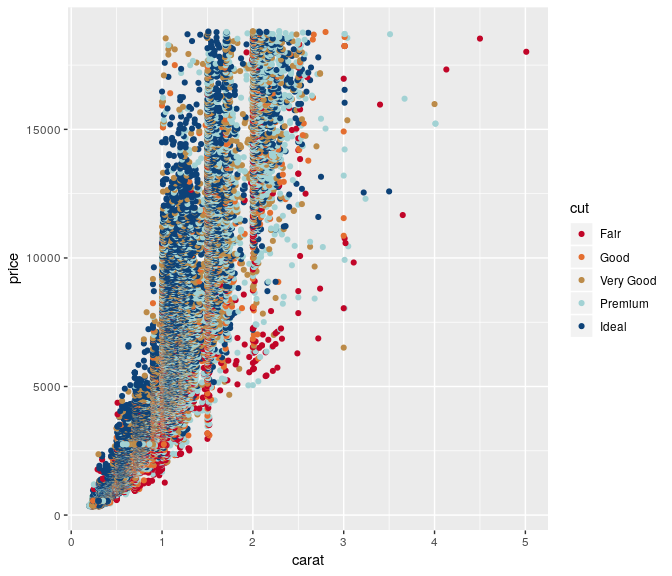
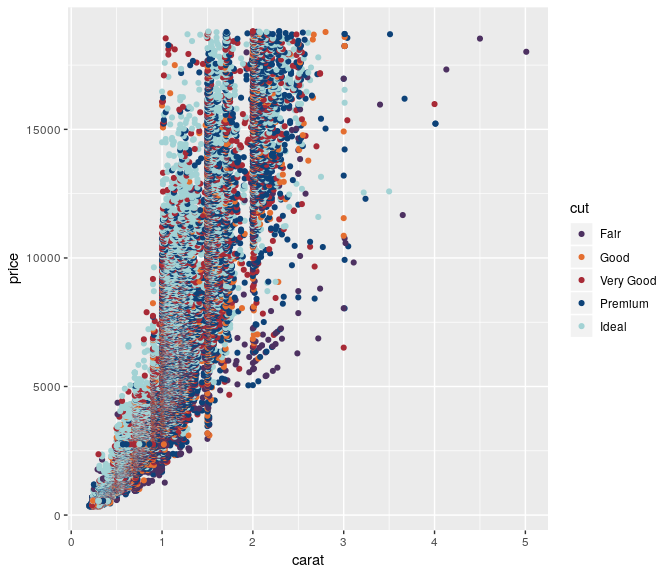
new colours

diff --git a/README.md b/README.md
@@ -21,9 +21,8 @@ See all available palettes:
 
 ``` r
 names(suf_palettes)
-#>  [1] "flag"       "london"     "hanwell"    "oxon"       "manchester"
-#>  [6] "mary"       "marion"     "e17"        "equality"   "caroline"  
-#> [11] "CarolMan"   "chelsea"    "StGeorge"   "chelsea2"
+#> [1] "london"   "oxon"     "CarolMan" "hanwell"  "chelsea"  "classic" 
+#> [7] "mary"
 ```
 
 Palettes
@@ -117,13 +116,6 @@ suf_palette("hanwell")
 
 ![](fig/README-unnamed-chunk-11-1.png)
 
-``` r
-# Discrete
-suf_palette("equality")
-```
-
-![](fig/README-unnamed-chunk-12-1.png)
-
 ### Example
 
 ``` r
@@ -131,10 +123,10 @@ data(diamonds)
 
 ggplot(diamonds, aes(x = carat, fill = cut)) + 
   geom_histogram(bins = 20) +
-    scale_fill_manual(values = suf_palette("oxon"))
+    scale_fill_manual(values = suf_palette("hanwell"))
 ```
 
-![](fig/README-unnamed-chunk-13-1.png)
+![](fig/README-unnamed-chunk-12-1.png)
 
 ### 5. Chelsea & St George
 
@@ -142,17 +134,17 @@ ggplot(diamonds, aes(x = carat, fill = cut)) +
 
 ``` r
 # Discrete
-suf_palette("chelsea2")
+suf_palette("chelsea")
 ```
 
-![](fig/README-unnamed-chunk-14-1.png)
+![](fig/README-unnamed-chunk-13-1.png)
 
 ``` r
 # Discrete
 suf_palette("mary")
 ```
 
-![](fig/README-unnamed-chunk-15-1.png)
+![](fig/README-unnamed-chunk-14-1.png)
 
 ### Example
 
@@ -161,10 +153,10 @@ data(iris)
 
 ggplot(iris,aes(x = Petal.Length, fill = Species)) + 
   geom_density() +
-  scale_color_manual(values = suf_palette("chelsea2"))
+  scale_color_manual(values = suf_palette("chelsea"))
 ```
 
-![](fig/README-unnamed-chunk-16-1.png)
+![](fig/README-unnamed-chunk-15-1.png)
 
 ### 6. Classic suffragette
 
@@ -172,17 +164,17 @@ ggplot(iris,aes(x = Petal.Length, fill = Species)) +
 
 ``` r
 # Discrete
-suf_palette("flag")
+suf_palette("classic")
 ```
 
-![](fig/README-unnamed-chunk-17-1.png)
+![](fig/README-unnamed-chunk-16-1.png)
 
 ``` r
 # Continuous
-suf_palette("flag", n = 6, type = "continuous")
+suf_palette("classic", n = 6, type = "continuous")
 ```
 
-![](fig/README-unnamed-chunk-18-1.png)
+![](fig/README-unnamed-chunk-17-1.png)
 
 ### Example
 
@@ -193,10 +185,10 @@ ggplot(iris,aes(x = Petal.Length, y = Petal.Width, color = Species)) +
   geom_point() +
   geom_smooth(method = 'loess') +
   facet_grid(. ~ Species, scales = 'free') +
-  scale_color_manual(values = suf_palette("flag", n = 3, type = "continuous"))
+  scale_color_manual(values = suf_palette("classic", n = 3, type = "continuous"))
 ```
 
-![](fig/README-unnamed-chunk-19-1.png)
+![](fig/README-unnamed-chunk-18-1.png)
 
 Acknowledgements
 ----------------
